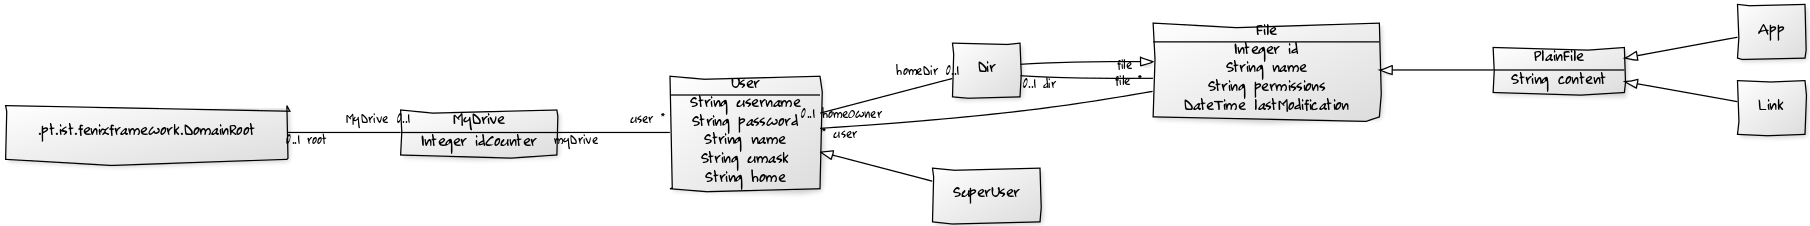
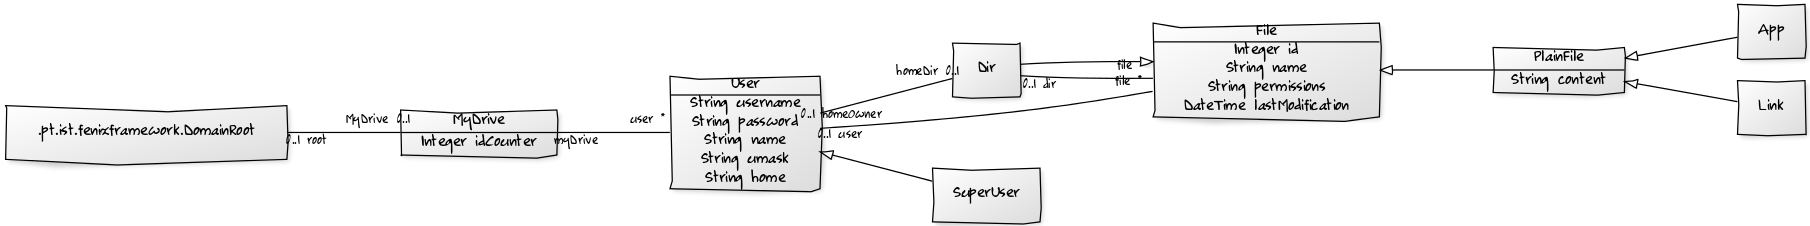
closes #39 Changed multiplicity of User-File

diff --git a/src/main/java/pt/tecnico/myDrive/domain/File.java b/src/main/java/pt/tecnico/myDrive/domain/File.java
@@ -88,10 +88,7 @@ public class File extends File_Base {
     }
 
     public User getFileOwner() {
-        for (User u : getUserSet()) {
-            return u;
-        }
-        return null;
+        return getUser();
     }
 
     public String getPath(){
@@ -110,11 +107,10 @@ public class File extends File_Base {
     }
 
     public boolean isOwner(User user) {
-        for (User u : getUserSet()) {
-            if (u.equals(user)) {
-                return true;
+        User u = getUser();
+        if (u.equals(user)) {
+            return true;
             }
-        }
         return false;
     }
 
@@ -151,24 +147,26 @@ public class File extends File_Base {
     }
 
     @Override
-    public void addUser(User user) {
+    public void setUser(User user) {
        throw new NoPermissionException("addUser");
     }
 
     public void setOwner(User user) {
-        for (User u : getUserSet())
+        User u = getUser();
+        if (u != null) {
             u.removeFile(this);
+        }
 
         if (user == null) {
-            super.addUser(SuperUser.getInstance());
+            super.setUser(SuperUser.getInstance());
             return;
         }
         user.addFile(this);
     }
 
     public void remove() {
-        for (User u : getUserSet())
-            u.removeFile(this);
+        User u = getUser();
+        u.removeFile(this);
         getDir().removeFile(this);
         deleteDomainObject();
     }

diff --git a/src/main/java/pt/tecnico/myDrive/domain/Dir.java b/src/main/java/pt/tecnico/myDrive/domain/Dir.java
@@ -76,8 +76,8 @@ public class Dir extends Dir_Base {
 
 	@Override
 	public void remove() throws MyDriveException {
-		for (User u : getUserSet())
-			u.removeFile(this);
+
+		getUser().removeFile(this);
 		getDir().removeFile(this);
 		getFileSet().forEach(File::remove);
 		if (getHomeOwner() != null){
